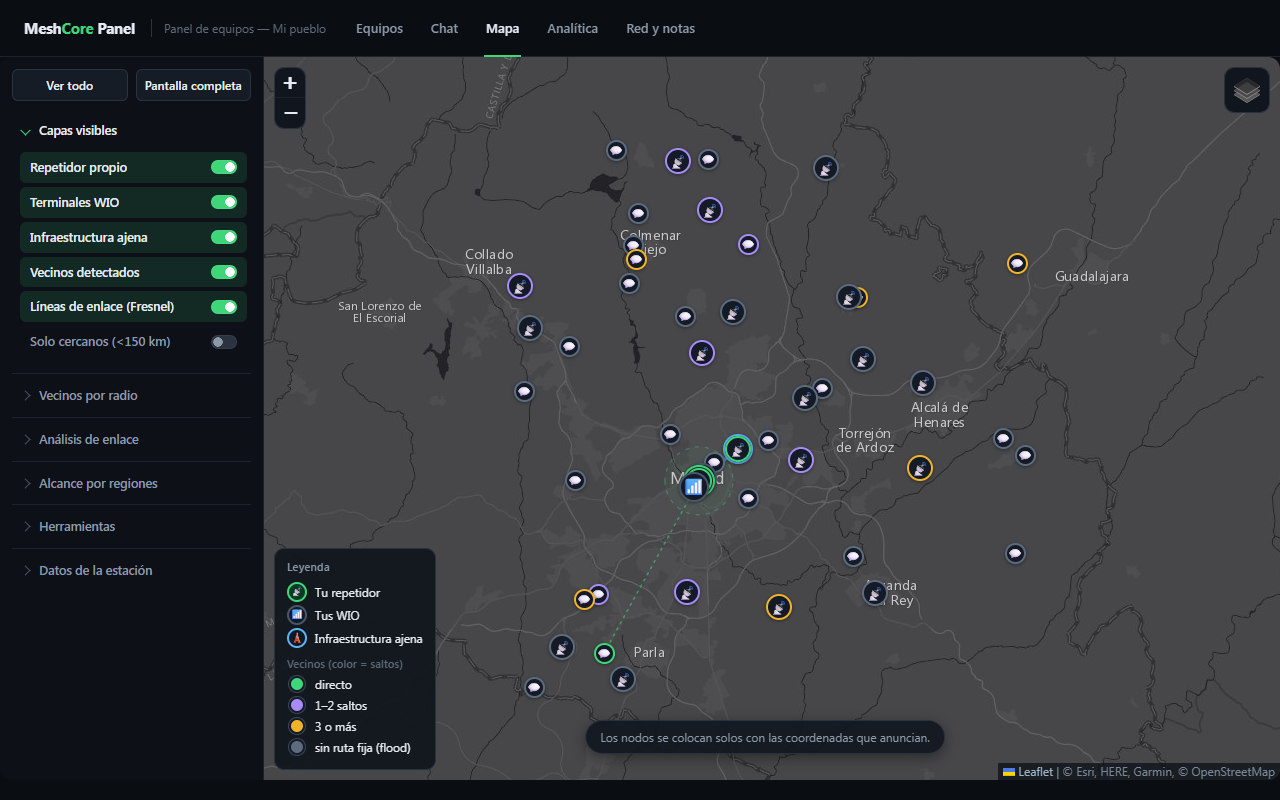
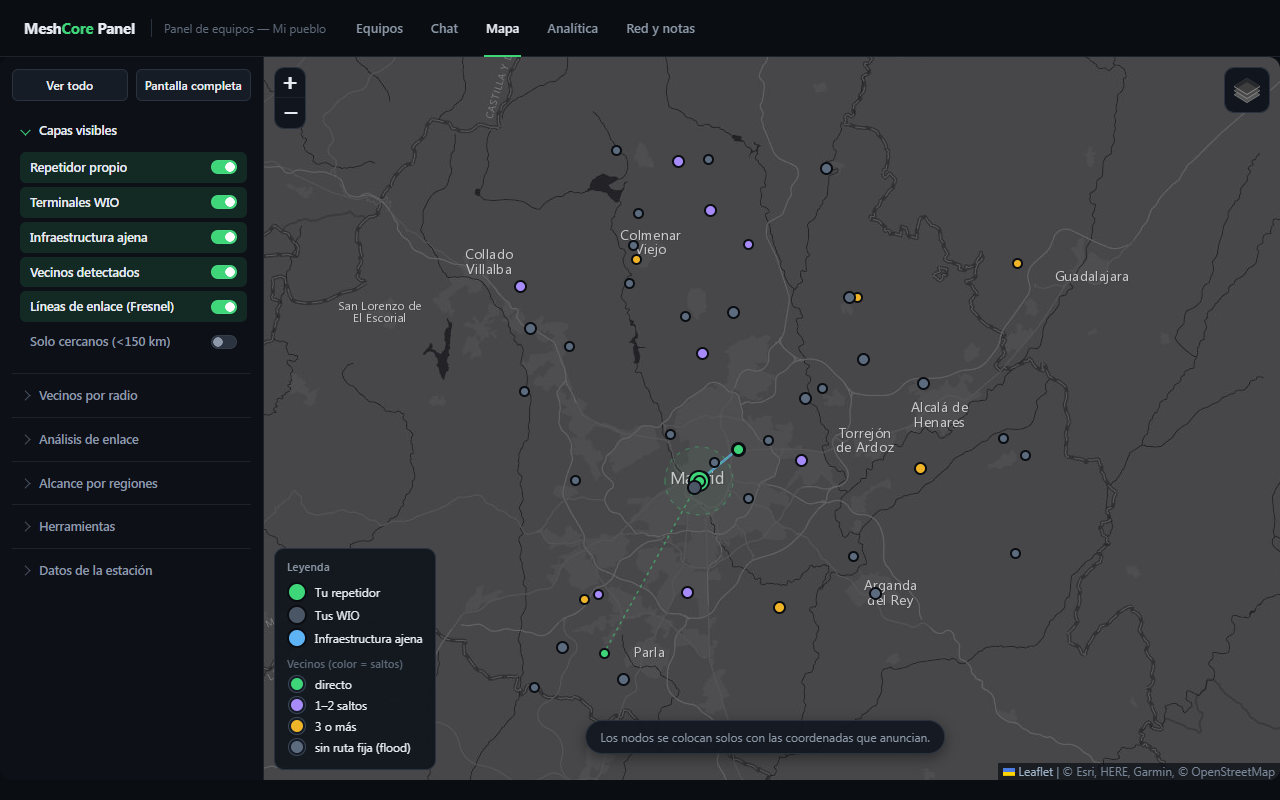
v1.1.3: mapa con puntos lisos, sin iconos

diff --git a/dashboard.html b/dashboard.html
@@ -1261,7 +1261,7 @@ const CFG=Object.assign({
 }, window.PANEL_CONFIG||{});
 const REPEATER_POS=[CFG.repetidor.lat, CFG.repetidor.lon];
 const REP_NOMBRE=CFG.repetidor.nombre;
-const PANEL_VERSION='1.1.2';
+const PANEL_VERSION='1.1.3';
 $('#panelVersion').textContent='v'+PANEL_VERSION;
 // Sin config.js propio el panel funciona, pero con nombres de ejemplo que no
 // cuadran con ninguna radio: avisarlo para que no parezca un fallo.
@@ -1423,9 +1423,9 @@ const leyenda=L.control({position:'bottomleft'});
 leyenda.onAdd=()=>{
   const d=L.DomUtil.create('div','mapLegend');
   d.innerHTML='<details'+(window.innerWidth<700?'':' open')+'><summary>Leyenda</summary>'+
-    '<div><span class="lg" style="border-color:#3fd67a;background:#0d3a24">📡</span>Tu repetidor</div>'+
-    '<div><span class="lg" style="border-color:#4a5666">📶</span>Tus WIO</div>'+
-    '<div><span class="lg" style="border-color:#5eb3f5;background:#0d1a26">🗼</span>Infraestructura ajena</div>'+
+    '<div><span class="lg" style="border-color:#0a0d12;background:#3fd67a"></span>Tu repetidor</div>'+
+    '<div><span class="lg" style="border-color:#0a0d12;background:#4a5666"></span>Tus WIO</div>'+
+    '<div><span class="lg" style="border-color:#0a0d12;background:#5eb3f5"></span>Infraestructura ajena</div>'+
     '<div class="lgSep">Vecinos (color = saltos)</div>'+
     '<div><span class="lgDot" style="background:#3fd67a"></span>directo</div>'+
     '<div><span class="lgDot" style="background:#a78bfa"></span>1–2 saltos</div>'+
@@ -1446,15 +1446,15 @@ const layerFresnel=L.layerGroup().addTo(map);
 // Un emoji suelto sobre el tile claro de OSM se ve fatal y sin ancla queda
 // descolocado del punto real. Fondo circular + borde + sombra + centrado.
 function mapPin(emoji,size,bg,border){
-  const s=size||30;
+  // Punto liso del color del tipo; el emoji ya no se pinta.
+  const s=Math.round((size||30)*0.5);
   return L.divIcon({
-    html:'<div style="width:'+s+'px;height:'+s+'px;border-radius:50%;background:'+(bg||'#141b26')+
-      ';border:2px solid '+(border||'#232e3d')+';box-shadow:0 1px 4px rgba(0,0,0,.5);'+
-      'display:flex;align-items:center;justify-content:center;font-size:'+Math.round(s*0.55)+'px">'+emoji+'</div>',
+    html:'<div style="width:'+s+'px;height:'+s+'px;border-radius:50%;background:'+(border||'#5f6b7a')+
+      ';border:2px solid #0a0d12"></div>',
     className:'',iconSize:[s,s],iconAnchor:[s/2,s/2],popupAnchor:[0,-s/2]
   });
 }
-const rakIcon=mapPin('📡',32,'#0d3a24','#3fd67a');
+const rakIcon=mapPin('📡',44,'#0d3a24','#3fd67a');
 L.marker(REPEATER_POS,{icon:rakIcon}).addTo(layerRak).bindPopup('<b>'+esc(REP_NOMBRE)+'</b><br>Tu repetidor');
 // Cobertura orientativa, no una promesa: SF7/BW62.5 en llano da unos 3-5 km,
 // con línea de vista despejada (como a un monte cercano) puede llegar mucho más lejos.

diff --git a/bridge/meshcore_ble_gateway_v3.py b/bridge/meshcore_ble_gateway_v3.py
@@ -90,7 +90,7 @@ def politica_cli(cmd: str, confirmed: bool):
         return 409, f'CONFIRMAR: {info.cli} - {info.note or info.label}'
     return None
 
-PANEL_VERSION = '1.1.2'
+PANEL_VERSION = '1.1.3'
 PORT = int(os.getenv('MESHCORE_BLE_GATEWAY_PORT', '8780'))
 # 0.0.0.0 por defecto porque el relay del PC entra por la LAN. Si el relay
 # corre en la propia Pi, MESHCORE_BIND=127.0.0.1 deja el puerto solo para nginx.

diff --git a/CHANGELOG.md b/CHANGELOG.md
@@ -3,6 +3,12 @@
 Formato basado en [Keep a Changelog](https://keepachangelog.com/es-ES/1.1.0/) y versiones
 según [SemVer](https://semver.org/lang/es/).
 
+## [1.1.3] - 2026-10-17
+
+### Cambiado
+- Mapa: los marcadores son puntos lisos del color de cada tipo, sin emoji;
+  la leyenda igual. Tu repetidor se ve algo más grande.
+
 ## [1.1.2] - 2026-10-17
 
 ### Cambiado
